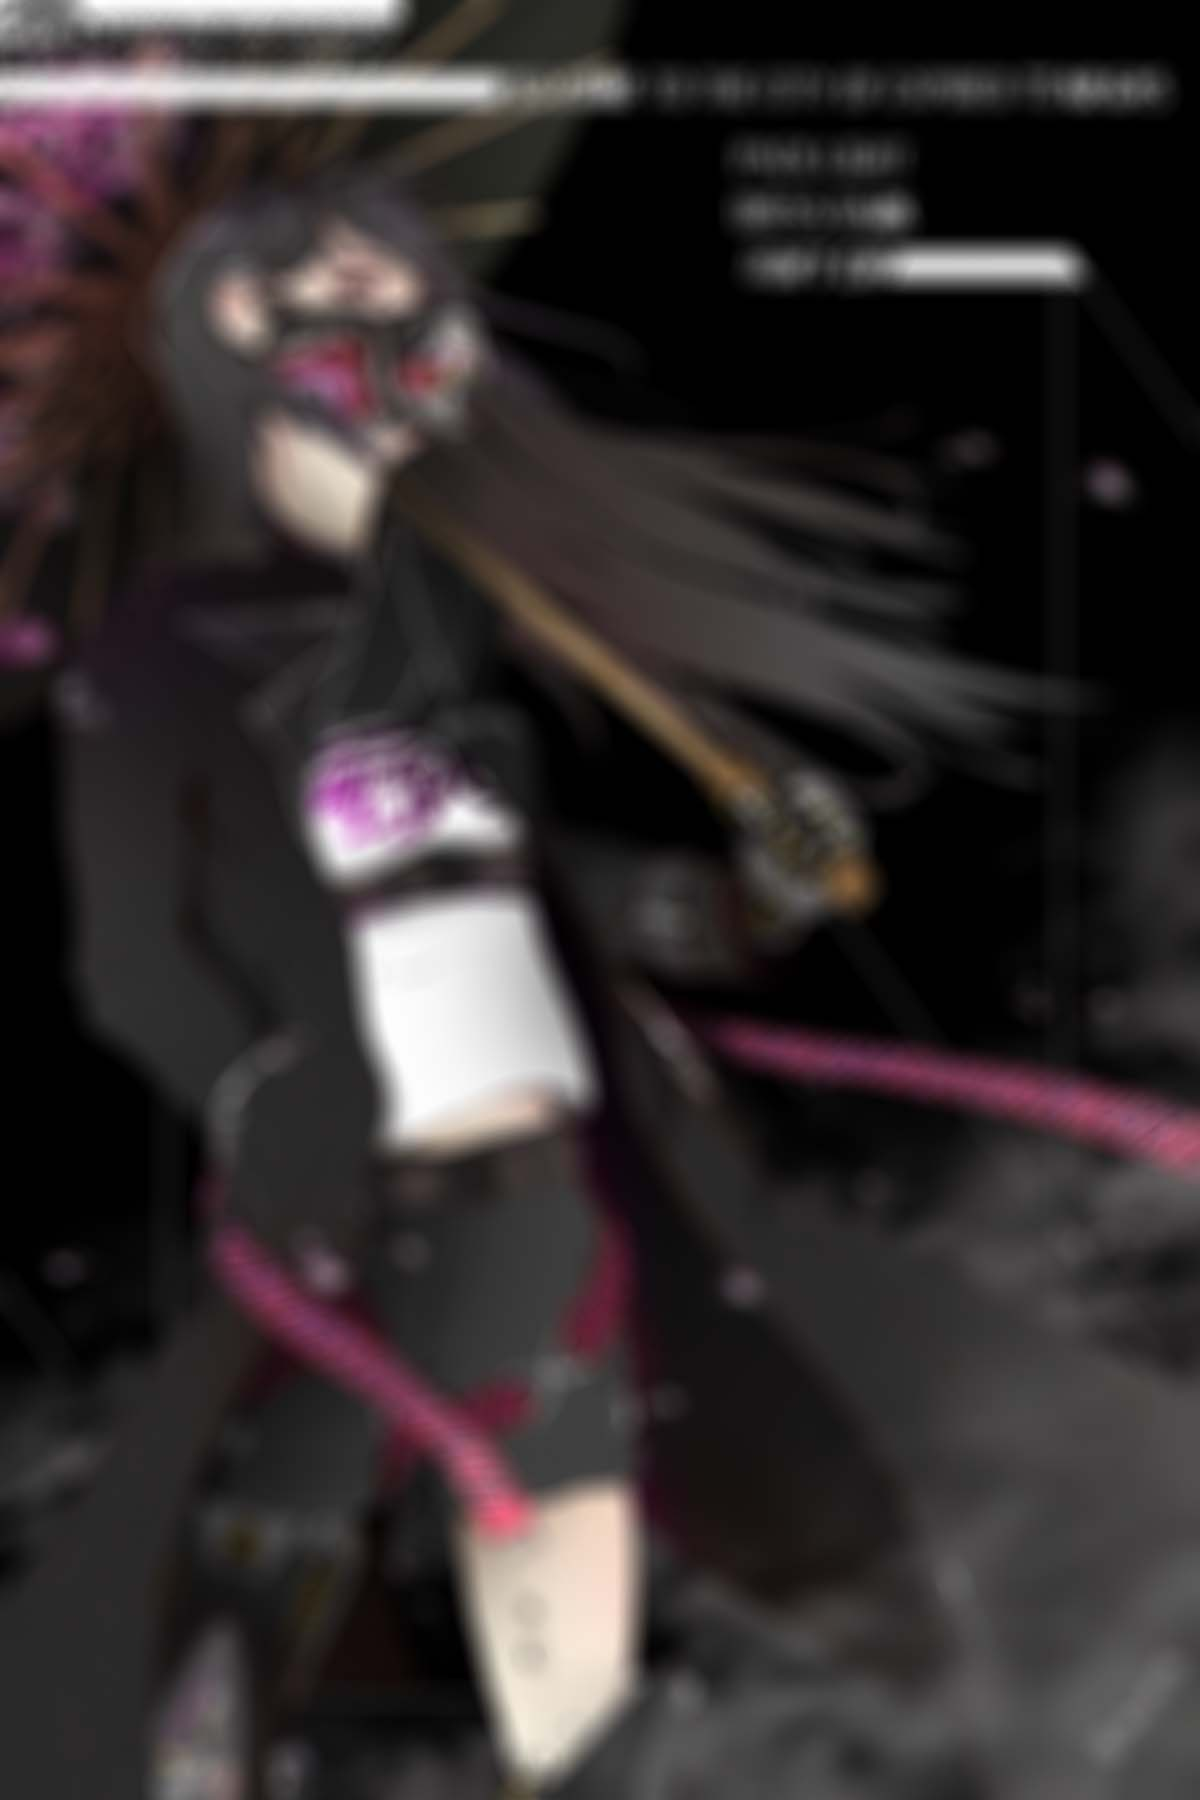
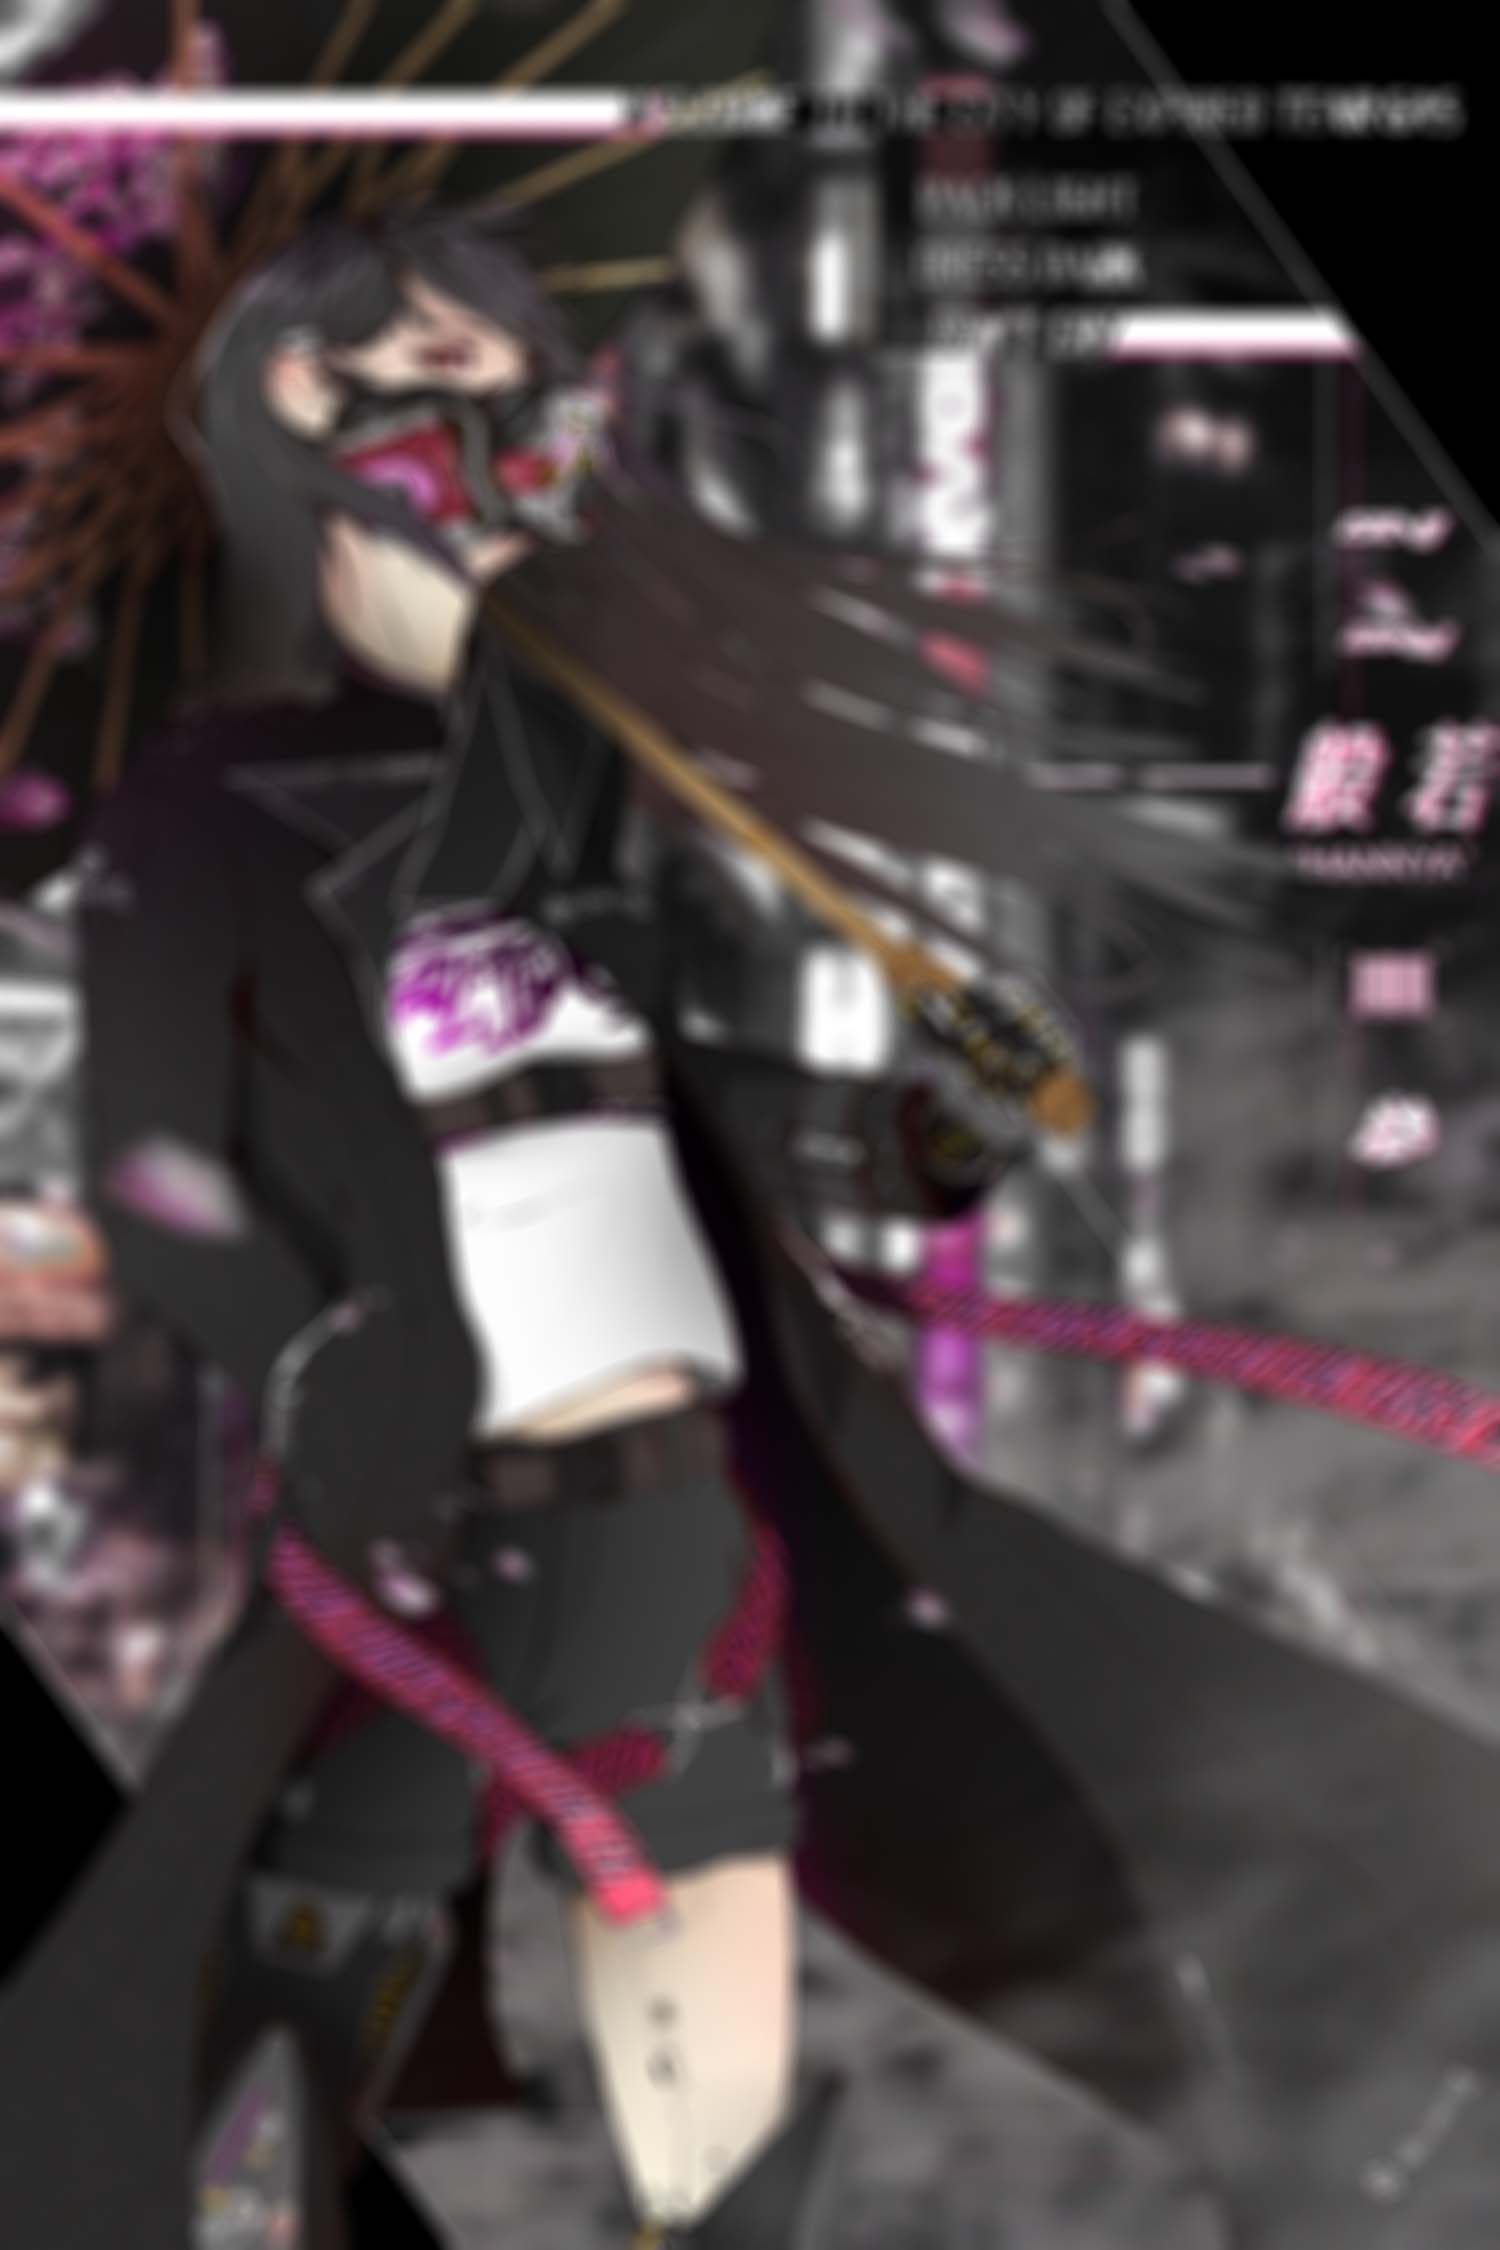
s

diff --git a/umbrella_girl.html b/umbrella_girl.html
@@ -184,32 +184,12 @@
 <!-- ------------------------------------------PARALLAX MOUSEOVER END ------------------------------------- -->
 
 <div class="front_artwork_text">
-  <h5>Javascript parallax hover effect by Matthew Wagner.</h5>
+  <h5>Javascript mouseover parallax hover effect by Matthew Wagner.</h5>
 </div>
 
 <div class="front_artwork_text_bottom">
   <h1>Welcome to the City of Expired Tear Gas</h1>
   <h5>Inspiration from recent political turmoil in Hong Kong. Cyberpunk aesthetic meant to futureproof and empower protesters by styling them in powerful equipment and bold fashions. Exploration of contrast with greyscale/pink, traditional/high-tech, flesh/prosthetics, curves/harsh mechanical shapes.<br>(Raymond Lam, Photoshop, Javascript, 2018)</h5>
-</div>
-
-<div class="front_artwork_bottom">
-    <img class="cyberpunk_hifumi_resize" src="images/web_hk_blur.jpg" data-src="images/web_hk.jpg" data-srcset="images/web_hk.jpg" alt="woman motorcycle anime futuristic"></img>
-       <div class="image_assets">
-          <a href="images/web_hk.jpg" class="buttons" target="_blank"><i class="material-icons">crop_free</i></a>
-      </div>
-  </div>
-<div class="front_artwork_text_bottom">
-  <h5>Landscape</h5>
-</div>
-
-<div class="front_artwork_bottom">
-    <img class="cyberpunk_hifumi_resize" src="images/web_hk_v2_blur.jpg" data-src="images/web_hk_v2.jpg" data-srcset="images/web_hk_v2.jpg" alt="woman motorcycle anime futuristic"></img>
-       <div class="image_assets">
-          <a href="images/web_hk_v2.jpg" class="buttons" target="_blank"><i class="material-icons">crop_free</i></a>
-      </div>
-  </div>
-<div class="front_artwork_text_bottom">
-  <h5>Landscape Close Up</h5>
 </div>
 
 <div class="front_artwork_bottom">
@@ -237,6 +217,27 @@
   <div class="SFD_logo_tall"  alt="bear logo speed factory design"></div>
 </a>
 </div>
+
+<div class="front_artwork_bottom">
+    <img class="cyberpunk_hifumi_resize" src="images/web_hk_blur.jpg" data-src="images/web_hk.jpg" data-srcset="images/web_hk.jpg" alt="woman motorcycle anime futuristic"></img>
+       <div class="image_assets">
+          <a href="images/web_hk.jpg" class="buttons" target="_blank"><i class="material-icons">crop_free</i></a>
+      </div>
+  </div>
+<div class="front_artwork_text_bottom">
+  <h5>Landscape</h5>
+</div>
+
+<div class="front_artwork_bottom">
+    <img class="cyberpunk_hifumi_resize" src="images/web_hk_v2_blur.jpg" data-src="images/web_hk_v2.jpg" data-srcset="images/web_hk_v2.jpg" alt="woman motorcycle anime futuristic"></img>
+       <div class="image_assets">
+          <a href="images/web_hk_v2.jpg" class="buttons" target="_blank"><i class="material-icons">crop_free</i></a>
+      </div>
+  </div>
+<div class="front_artwork_text_bottom">
+  <h5>Landscape Close Up</h5>
+</div>
+
 
 <footer class="marketing-site-footer">
 

diff --git a/css/12.css b/css/12.css
@@ -118,8 +118,8 @@ max-width: 1100px;
   background-size: cover;
   background-repeat: no-repeat;
   background-color: black;
-  margin: 0;
-  max-width: 100%;
+  margin: auto;
+  max-width: 80%;
   height: auto;
   position: relative;
   overflow: hidden;

diff --git a/js/parallax.js b/js/parallax.js
@@ -534,8 +534,8 @@ var MAGIC_NUMBER = 30,
   invertY: true,
   limitX: false,
   limitY: false,
-  scalarX: 4.0,
-  scalarY: 2.0,
+  scalarX: 20.0,
+  scalarY: 20.0,
   frictionX: 0.1,
   frictionY: 0.1,
   originX: 0.5,
